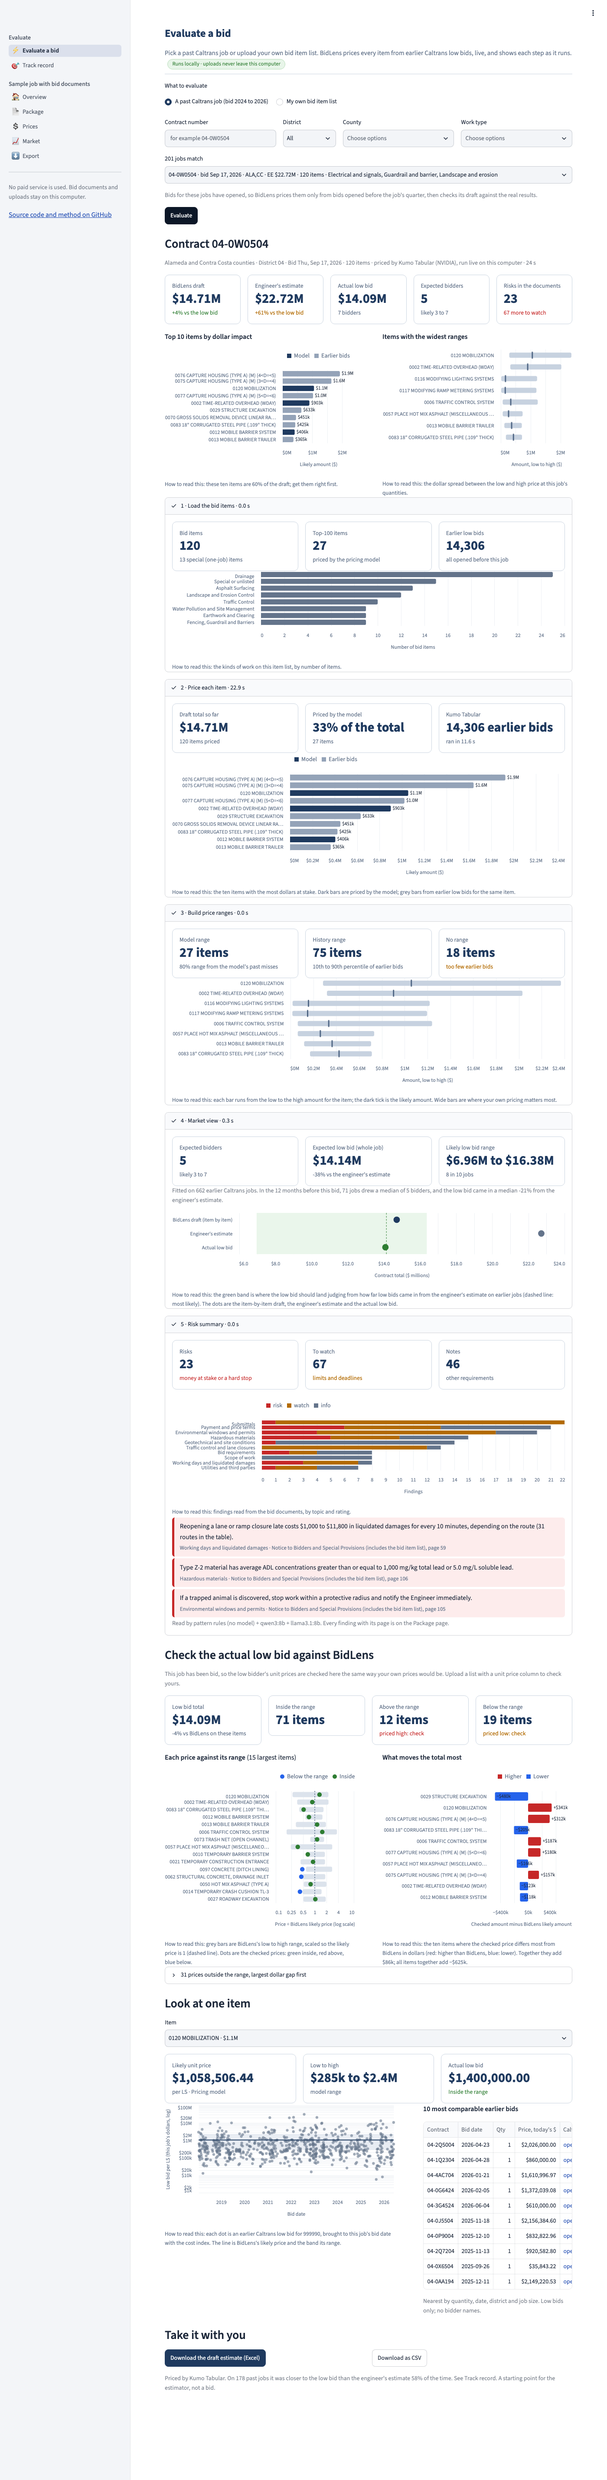
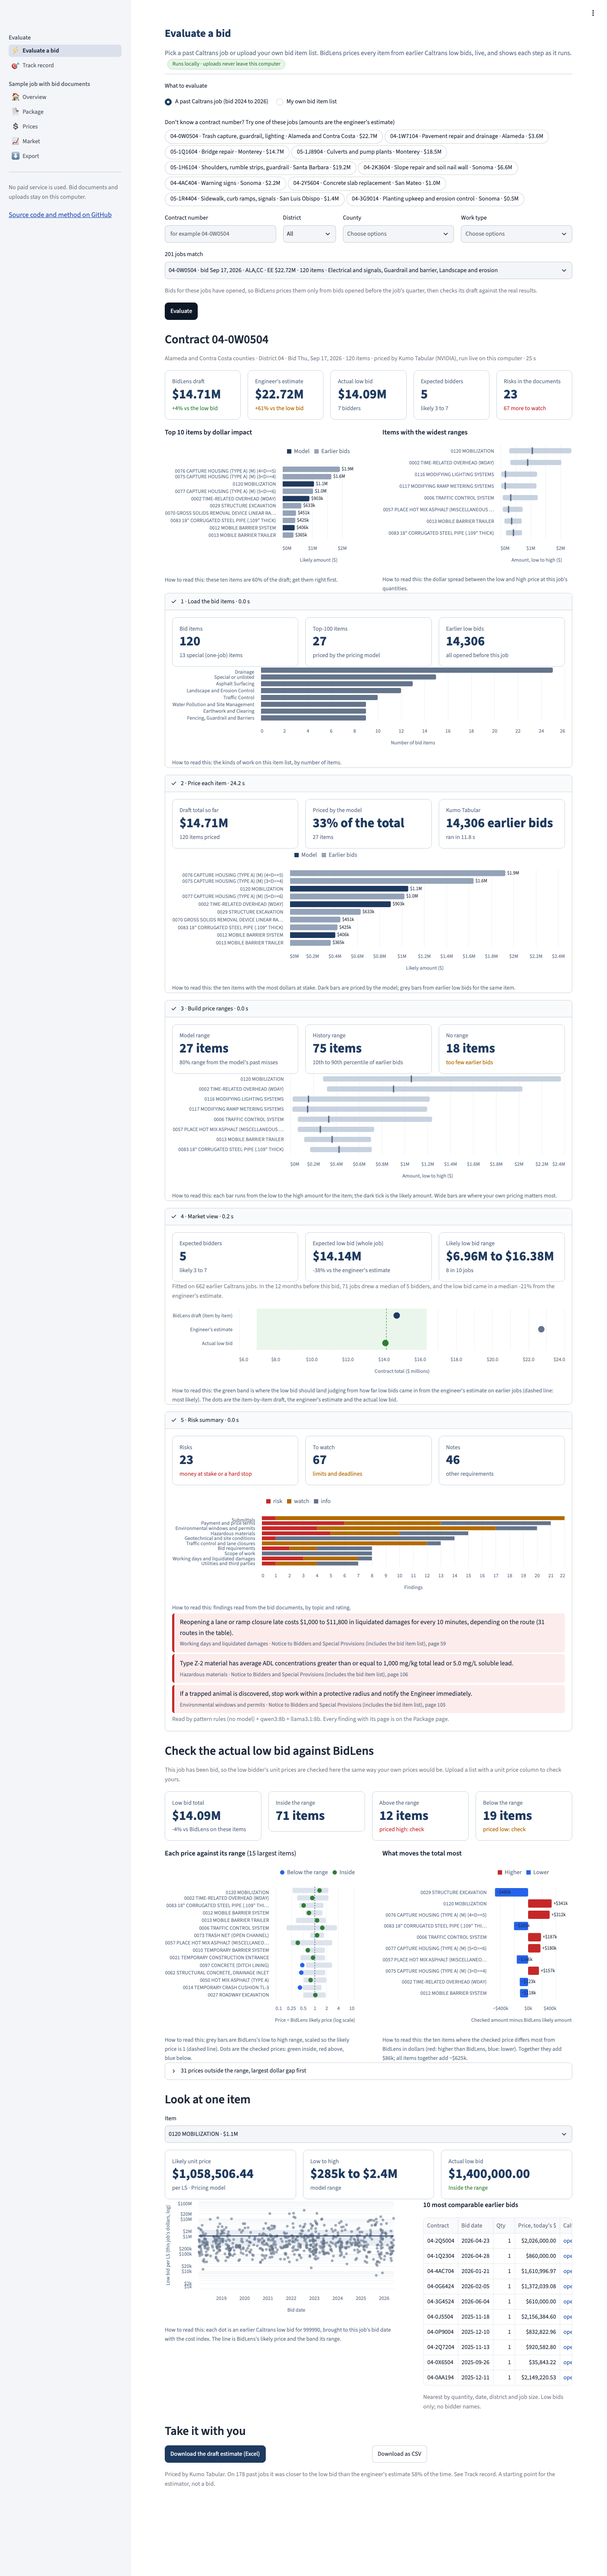
Evaluate: ten example jobs to try with one click

diff --git a/app/views/evaluate.py b/app/views/evaluate.py
@@ -50,6 +50,21 @@ STATUS_COLOR = {"below": "#2563EB", "inside": GREEN, "above": RED}
 STATUS_TEXT = {"below": "Below the range", "inside": "Inside the range", "above": "Above the range"}
 SAMPLE_JOB = "04-0W0504"
 EXAMPLE = ROOT / "data" / "sample" / "example_bid_items.csv"
+# Ten jobs to try without knowing a contract number: one or two per kind of work, both
+# districts, $0.5M to $23M. Picked for variety, not for good results: on two of them the
+# engineer's estimate lands closer to the low bid than BidLens does.
+EXAMPLES = {
+    "04-0W0504": "Trash capture, guardrail, lighting · Alameda and Contra Costa · $22.7M",
+    "04-1W7104": "Pavement repair and drainage · Alameda · $3.6M",
+    "05-1Q1604": "Bridge repair · Monterey · $14.7M",
+    "05-1J8904": "Culverts and pump plants · Monterey · $18.5M",
+    "05-1H6104": "Shoulders, rumble strips, guardrail · Santa Barbara · $19.2M",
+    "04-2K3604": "Slope repair and soil nail wall · Sonoma · $6.6M",
+    "04-4AC404": "Warning signs · Sonoma · $2.2M",
+    "04-2Y5604": "Concrete slab replacement · San Mateo · $1.0M",
+    "05-1R4404": "Sidewalk, curb ramps, signals · San Luis Obispo · $1.4M",
+    "04-3G9014": "Planting upkeep and erosion control · Sonoma · $0.5M",
+}
 
 badge = (
     "Hosted demo · public Caltrans data"
@@ -86,12 +101,28 @@ source = st.radio(
 spec = None
 if source.startswith("A past"):
     tc = test_contracts()
+    examples = [c for c in EXAMPLES if c in set(tc["contract_number"])]
+
+    def use_example() -> None:
+        code = st.session_state.get("example")
+        if code:
+            st.session_state.update(job_q=code, job_district="All", job_county=[], job_work=[])
+
+    st.pills(
+        "Don't know a contract number? Try one of these jobs (amounts are the engineer's estimate)",
+        examples,
+        format_func=lambda c: f"{c} · {EXAMPLES[c]}",
+        key="example",
+        on_change=use_example,
+    )
     c1, c2, c3, c4 = st.columns([2, 1, 2, 2])
-    q = c1.text_input("Contract number", placeholder="for example 04-0W0504")
-    dist = c2.selectbox("District", ["All", "04", "05"])
+    q = c1.text_input("Contract number", placeholder="for example 04-0W0504", key="job_q")
+    dist = c2.selectbox("District", ["All", "04", "05"], key="job_district")
     names = sorted({c for v in tc["county"].dropna() for c in v.split(",")})
-    cty = c3.multiselect("County", names, format_func=lambda c: COUNTIES.get(c, c))
-    wt = c4.multiselect("Work type", list(WORK_LABELS.values()))
+    cty = c3.multiselect(
+        "County", names, format_func=lambda c: COUNTIES.get(c, c), key="job_county"
+    )
+    wt = c4.multiselect("Work type", list(WORK_LABELS.values()), key="job_work")
     f = tc
     if q.strip():
         f = f[f["contract_number"].str.contains(q.strip().upper(), regex=False)]
@@ -117,7 +148,12 @@ if source.startswith("A past"):
                 f"{r['county']}{ee} · {r['items']} items{work}"
             )
 
-        pick = st.selectbox(f"{len(f)} jobs match", opts, index=default, format_func=fmt)
+        pick = st.selectbox(
+            "1 job matches" if len(f) == 1 else f"{len(f)} jobs match",
+            opts,
+            index=default,
+            format_func=fmt,
+        )
         r = f.iloc[pick]
         spec = ("contract", r["contract_number"], r["bid_open_date"])
         st.caption(

diff --git a/README.md b/README.md
@@ -33,7 +33,7 @@ BidLens puts that history, and the documents, to work for the estimator.
 
 BidLens does not replace the estimator. It does the reading and the lookup work, shows its evidence, and leaves the judgment to people who know how the work gets built.
 
-**Try it: Evaluate a bid.** Pick a past Caltrans job or upload your own bid item list (CSV or Excel: item code, description, unit, quantity, and your unit prices if you have them). Press Evaluate and BidLens runs five steps for real, each showing its numbers and a chart as it finishes: load the items, price each item from every earlier Caltrans low bid, build the price ranges, the market view, and the risk summary from the bid documents. If your list has unit prices, **Check my bid** marks each one inside, above or below the BidLens range and ranks the items that move your total most.
+**Try it: Evaluate a bid.** Pick a past Caltrans job (no contract number needed: ten example jobs, from a $0.5M landscaping job to a $22.7M multi-scope job, are one click away) or upload your own bid item list (CSV or Excel: item code, description, unit, quantity, and your unit prices if you have them). Press Evaluate and BidLens runs five steps for real, each showing its numbers and a chart as it finishes: load the items, price each item from every earlier Caltrans low bid, build the price ranges, the market view, and the risk summary from the bid documents. If your list has unit prices, **Check my bid** marks each one inside, above or below the BidLens range and ranks the items that move your total most.
 
 ![The Evaluate page after a live run on Caltrans contract 04-0W0504: a dashboard with the draft, the engineer's estimate, the actual low bid, expected bidders and risks; the ten largest items and the widest ranges; the five steps with their charts; the check of the actual low bid against the ranges; and one item's price history and comparable bids](outputs/21_app/screenshots/01_evaluate.png)
 
@@ -259,7 +259,7 @@ v1 covers Caltrans Districts 4 and 5, bid years 2018 to 2026, and the 100 highes
 
 Requirements: Python 3.11 or newer and [uv](https://docs.astral.sh/uv/). Everything is free and runs on your machine.
 
-**Try the app in three commands.** It opens on Evaluate: pick any Caltrans job bid in 2024 to 2026, or upload your own bid item list (an example file is on the page), and press Evaluate. The included sample package (Caltrans contract 04-0W0504) also has its document findings, under "Sample job with bid documents":
+**Try the app in three commands.** It opens on Evaluate: pick any Caltrans job bid in 2024 to 2026 (or one of the ten example jobs), or upload your own bid item list (an example file is on the page), and press Evaluate. The included sample package (Caltrans contract 04-0W0504) also has its document findings, under "Sample job with bid documents":
 
 ```bash
 git clone <repo-url> && cd bidlens

diff --git a/CHANGELOG.md b/CHANGELOG.md
@@ -4,7 +4,7 @@
 
 BidLens now works as a live tool, not only a report on one sample job.
 
-- **Evaluate a bid** (the new first page). Pick any of about 200 Caltrans jobs bid in 2024 to 2026 (search by contract number, district, county or work type), or upload your own bid item list as CSV or Excel. Press Evaluate and watch five steps run for real: load the items, price each item, build the price ranges, the market view and the risk summary, each showing its numbers and a chart as it finishes.
+- **Evaluate a bid** (the new first page). Pick any of about 200 Caltrans jobs bid in 2024 to 2026 (search by contract number, district, county or work type, or click one of ten example jobs), or upload your own bid item list as CSV or Excel. Press Evaluate and watch five steps run for real: load the items, price each item, build the price ranges, the market view and the risk summary, each showing its numbers and a chart as it finishes.
 - **A dashboard on every result:** the draft total, the engineer's estimate, the actual low bid when the job has been bid, the expected number of bidders, the items with the widest ranges, the top 10 items by dollars, and the number of risks when the bid documents are available.
 - **Check my bid.** If the uploaded list has unit prices, each one is marked inside, above or below the BidLens range, with a chart, and the items that move the total most are ranked. For past jobs, the same check runs on the actual low bid.
 - **Look at one item:** its price history, its range and its 10 most comparable earlier bids, each linked to its Caltrans page.
